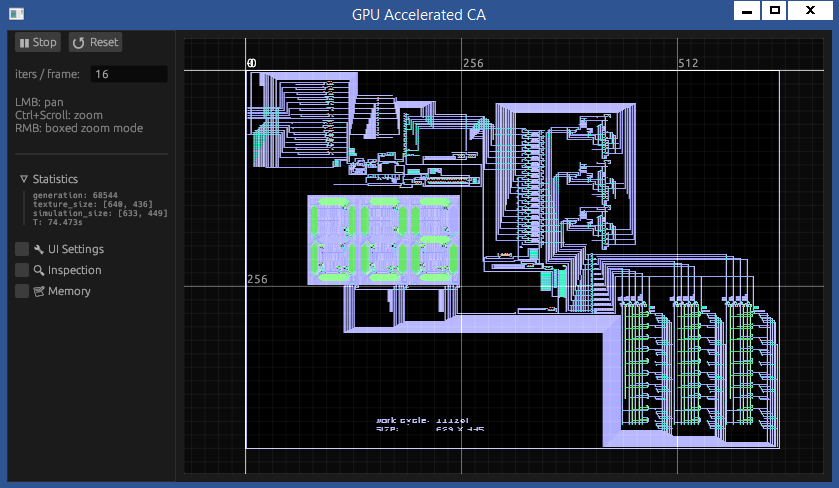
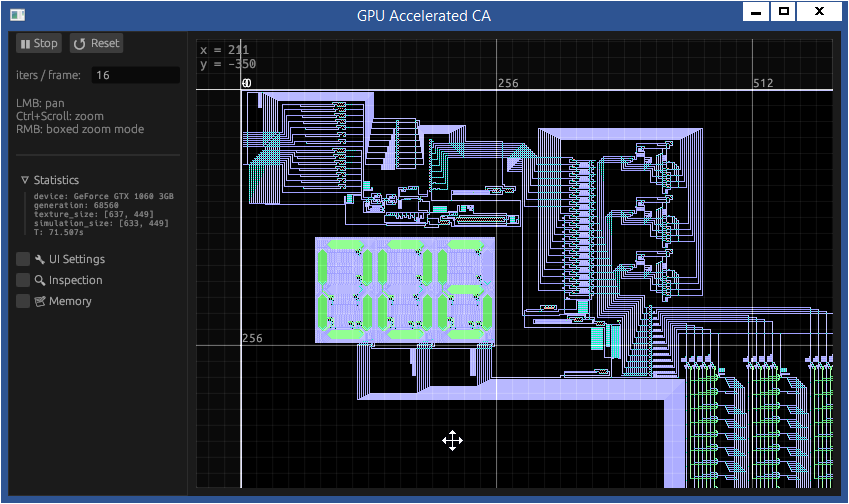
LUT approach; optimize pipeline

diff --git a/src/gpu_draw.rs b/src/gpu_draw.rs
@@ -24,6 +24,7 @@ impl Default for Uniform {
     }}}
 
 pub struct GPUDrawer {
+  shader: wgpu::ShaderModule,
   render_pipeline: wgpu::RenderPipeline,
   compute_pipeline: wgpu::ComputePipeline,
 
@@ -33,6 +34,7 @@ pub struct GPUDrawer {
 
   uniform_buffer: wgpu::Buffer,
   simulation_buffer: wgpu::Buffer,
+  lut_buffer: wgpu::Buffer,
 
   texture: (wgpu::Texture, wgpu::TextureView),
   pub texture_size: [u32; 2],
@@ -43,7 +45,7 @@ pub struct GPUDrawer {
 }
 
 impl GPUDrawer {
-  pub fn new(device: &wgpu::Device, target_format: wgpu::TextureFormat) -> Self {
+  pub fn new(device: &wgpu::Device, queue: &wgpu::Queue, target_format: wgpu::TextureFormat) -> Self {
     let shader = device.create_shader_module(
       wgsl_preprocessor::ShaderBuilder::new("./kernel/main.wgsl")
         .expect("Failed to load ./kernel/main.wgsl")
@@ -75,6 +77,16 @@ impl GPUDrawer {
       wgpu::BindGroupLayoutEntry { // simulation_buffer
         binding: 1,
         visibility: wgpu::ShaderStages::FRAGMENT | wgpu::ShaderStages::COMPUTE,
+        ty: wgpu::BindingType::Buffer {
+          ty: wgpu::BufferBindingType::Storage { read_only: false },
+          has_dynamic_offset: false,
+          min_binding_size: None,
+        },
+        count: None,
+      },
+      wgpu::BindGroupLayoutEntry { // LUT
+        binding: 2,
+        visibility: wgpu::ShaderStages::COMPUTE,
         ty: wgpu::BindingType::Buffer {
           ty: wgpu::BufferBindingType::Storage { read_only: false },
           has_dynamic_offset: false,
@@ -133,22 +145,24 @@ impl GPUDrawer {
       mapped_at_creation: false
     });
 
-    let bind_group = device.create_bind_group(&wgpu::BindGroupDescriptor {
-      label: Some("egui_plot_bind_group"),
-      layout: &bind_group_layout,
-      entries: &[wgpu::BindGroupEntry {
-        binding: 0,
-        resource: uniform_buffer.as_entire_binding(),
-      },
-      wgpu::BindGroupEntry {
-        binding: 1,
-        resource: simulation_buffer.as_entire_binding(),
-      }],
+    let lut_buffer = device.create_buffer(&wgpu::BufferDescriptor {
+      label: Some("Simulation Buffer"),
+      // c(5)-n(5)-e(5)-s(5)-w(5) = r(8)
+      size: 2u32.pow(25) as _, // 32MB
+      usage: wgpu::BufferUsages::STORAGE,
+      mapped_at_creation: false
     });
+
+    let bind_group = Self::create_bind_group(
+      &device, &bind_group_layout,
+      &uniform_buffer, &simulation_buffer, &lut_buffer
+    );
 
     let compute_pipeline = Self::create_compute_pipeline(device, &[&bind_group_layout], &shader, None);
 
-    Self {
+    let this = Self {
+      shader,
+
       render_pipeline,
       compute_pipeline,
 
@@ -158,13 +172,40 @@ impl GPUDrawer {
 
       uniform_buffer,
       simulation_buffer,
+      lut_buffer,
 
       texture,
       texture_size: [0, 0],
       uniforms,
 
       simulatiion_steps_per_call: 1
+    };
+
+    this.initialize_ca_lut(&device, &queue);
+    this
+  }
+
+  fn initialize_ca_lut(&self, device: &wgpu::Device, queue: &wgpu::Queue) {
+    let mut encoder =  device.create_command_encoder(&wgpu::CommandEncoderDescriptor { label: None });
+    let layout = device.create_pipeline_layout(&wgpu::PipelineLayoutDescriptor {
+      label: Some("lut layout"),
+      bind_group_layouts: &[&self.bind_group_layout],
+      push_constant_ranges: &[],
+    });
+    let pipeline = device.create_compute_pipeline(&wgpu::ComputePipelineDescriptor {
+      label: Some("lut pipeline"),
+      layout: Some(&layout),
+      module: &self.shader,
+      entry_point: "compute_lut",
+    });
+    {
+      let mut cpass = encoder.begin_compute_pass(&wgpu::ComputePassDescriptor { label: None });
+      cpass.set_pipeline(&pipeline);
+      cpass.set_bind_group(0, &self.bind_group, &[]);
+      cpass.insert_debug_marker("compute lut");
+      cpass.dispatch_workgroups(2u32.pow(13), 2u32.pow(12), 1);
     }
+    queue.submit(std::iter::once(encoder.finish()));
   }
 
   fn create_texture(
@@ -220,6 +261,32 @@ impl GPUDrawer {
     pipeline
   }
 
+  fn create_bind_group(
+    device: &wgpu::Device,
+    layout: &wgpu::BindGroupLayout,
+    uniform_buffer: &wgpu::Buffer,
+    simulation_buffer: &wgpu::Buffer,
+    lut_buffer: &wgpu::Buffer,
+  ) -> wgpu::BindGroup {
+    device.create_bind_group(&wgpu::BindGroupDescriptor {
+      label: Some("egui_plot_bind_group"),
+      layout,
+      entries: &[wgpu::BindGroupEntry {
+          binding: 0,
+          resource: uniform_buffer.as_entire_binding(),
+        },
+        wgpu::BindGroupEntry {
+          binding: 1,
+          resource: simulation_buffer.as_entire_binding(),
+        },
+        wgpu::BindGroupEntry {
+          binding: 2,
+          resource: lut_buffer.as_entire_binding(),
+        }
+      ],
+    })
+  }
+
   pub fn prepare(
     &mut self,
     device: &wgpu::Device,
@@ -241,33 +308,27 @@ impl GPUDrawer {
     queue.write_buffer(&self.uniform_buffer, 0, bytemuck::cast_slice(&[self.uniforms]));
   }
 
-  pub fn render(&self, device: &wgpu::Device, queue: &wgpu::Queue) {
-    let mut encoder =
-      device.create_command_encoder(&wgpu::CommandEncoderDescriptor { label: None });
-    {
-      let view = self.create_view();
+  pub fn render(&self, encoder: &mut wgpu::CommandEncoder) {
+    let view = self.create_view();
 
-      // Render directly to the texture if no MSAA, or use the
-      // multisampled buffer and resolve to the texture if using MSAA.
-      let rpass_color_attachment = wgpu::RenderPassColorAttachment {
-        view: &view,
-        resolve_target: None,
-        ops: wgpu::Operations {
-          load: wgpu::LoadOp::Clear(wgpu::Color::TRANSPARENT),
-          store: true,
-        },
-      };
+    // Render directly to the texture if no MSAA, or use the
+    // multisampled buffer and resolve to the texture if using MSAA.
+    let rpass_color_attachment = wgpu::RenderPassColorAttachment {
+      view: &view,
+      resolve_target: None,
+      ops: wgpu::Operations {
+        load: wgpu::LoadOp::Clear(wgpu::Color::TRANSPARENT),
+        store: true,
+      },
+    };
 
-      let mut rpass = encoder.begin_render_pass(&wgpu::RenderPassDescriptor {
-        label: None,
-        color_attachments: &[Some(rpass_color_attachment)],
-        depth_stencil_attachment: None,
-      });
+    let mut rpass = encoder.begin_render_pass(&wgpu::RenderPassDescriptor {
+      label: None,
+      color_attachments: &[Some(rpass_color_attachment)],
+      depth_stencil_attachment: None,
+    });
 
-      self.render_onto_renderpass(&mut rpass);
-    }
-
-    queue.submit(std::iter::once(encoder.finish()));
+    self.render_onto_renderpass(&mut rpass);
   }
 
   pub fn render_onto_renderpass<'rp>(&'rp self, rpass: &mut wgpu::RenderPass<'rp>) {
@@ -299,26 +360,15 @@ impl GPUDrawer {
         | wgpu::BufferUsages::COPY_SRC,
       mapped_at_creation: false
     });
-    self.bind_group = device.create_bind_group(&wgpu::BindGroupDescriptor {
-      label: Some("egui_plot_bind_group"),
-      layout: &self.bind_group_layout,
-      entries: &[wgpu::BindGroupEntry {
-        binding: 0,
-        resource: self.uniform_buffer.as_entire_binding(),
-      },
-      wgpu::BindGroupEntry {
-        binding: 1,
-        resource: self.simulation_buffer.as_entire_binding(),
-      }],
-    });
+    self.bind_group = Self::create_bind_group(
+      &device, &self.bind_group_layout,
+      &self.uniform_buffer, &self.simulation_buffer, &self.lut_buffer
+    );
     queue.write_buffer(&self.simulation_buffer, 0, &pattern);
   }
 
-  pub fn simulation_advance(&mut self, device: &wgpu::Device, queue: &wgpu::Queue) {
+  pub fn simulation_advance(&mut self, encoder: &mut wgpu::CommandEncoder) {
     for _ in 0..self.simulatiion_steps_per_call {
-      let mut encoder =
-        device.create_command_encoder(&wgpu::CommandEncoderDescriptor { label: None });
-
       {
         let mut cpass = encoder.begin_compute_pass(&wgpu::ComputePassDescriptor { label: None });
         cpass.set_pipeline(&self.compute_pipeline);
@@ -327,9 +377,8 @@ impl GPUDrawer {
         cpass.dispatch_workgroups(self.uniforms.simulation_dimm[0], self.uniforms.simulation_dimm[1], 1);
       }
 
-      queue.write_buffer(&self.uniform_buffer, 0, bytemuck::cast_slice(&[self.uniforms]));
-      queue.submit(std::iter::once(encoder.finish()));
       self.uniforms.time = self.uniforms.time.wrapping_add(1);
+      //queue.write_buffer(&self.uniform_buffer, 0, bytemuck::cast_slice(&[self.uniforms]));
     }
   }
 }
@@ -343,8 +392,11 @@ pub fn egui_wgpu_callback(
     egui_wgpu::CallbackFn::new().prepare(move |device, queue, _encoder, paint_callback_resources| {
       let gpu_drawer: &mut GPUDrawer = paint_callback_resources.get_mut().unwrap();
 
+      let mut encoder =
+        device.create_command_encoder(&wgpu::CommandEncoderDescriptor { label: None });
+
       if compute_requested {
-        gpu_drawer.simulation_advance(device, queue);
+        gpu_drawer.simulation_advance(&mut encoder);
       }
 
       gpu_drawer.prepare(
@@ -354,9 +406,9 @@ pub fn egui_wgpu_callback(
         &bounds,
       );
 
-      gpu_drawer.render(device, queue);
+      gpu_drawer.render(&mut encoder);
 
-      vec![]
+      vec![encoder.finish()]
     });
 
   egui::PaintCallback {

diff --git a/src/lib.rs b/src/lib.rs
@@ -8,6 +8,7 @@ mod gpu_draw;
 use gpu_draw::GPUDrawer;
 
 pub struct GpuPlot {
+  adapter_info: Option<wgpu::AdapterInfo>,
   compute_requested: bool,
   texture_id: egui::TextureId,
 
@@ -30,10 +31,14 @@ impl GpuPlot {
   pub fn new<'a>(cc: &'a eframe::CreationContext<'a>) -> Option<Self> {
     let wgpu_render_state = cc.wgpu_render_state.as_ref()?;
 
+    let adapter_info = wgpu::Instance::new(wgpu::Backends::all())
+      .enumerate_adapters(wgpu::Backends::all())
+      .next().map(|a| a.get_info());
+
     let device = &wgpu_render_state.device;
     let target_format = wgpu_render_state.target_format;
 
-    let mut gpu_drawer = GPUDrawer::new(device, target_format);
+    let mut gpu_drawer = GPUDrawer::new(device, &wgpu_render_state.queue, target_format);
     gpu_drawer.load_simulation(device, &wgpu_render_state.queue);
     let texture_id = {
       let mut renderer = wgpu_render_state.renderer.write();
@@ -49,6 +54,7 @@ impl GpuPlot {
     configure_text_styles(&cc.egui_ctx);
 
     Some(Self {
+      adapter_info,
       compute_requested: false,
       texture_id,
 
@@ -66,12 +72,23 @@ impl eframe::App for GpuPlot {
     let mut renderer = render_state.renderer.write();
     let gpu_drawer = renderer.paint_callback_resources.get_mut::<GPUDrawer>().unwrap();
 
-    //if gpu_drawer.uniforms.time >= 1 {
-    //  self.compute_requested = false;
-    //}
+    /*
+     * profiling for {
+     *   simulation_dimm: 633x449,
+     *   generations: 8192,
+     *   iters/frame: 32
+     * }
+     *
+     * hutton32, naive branching -> 7.803s
+     * hutton32, LUT 32MB        -> 5.695s (memory bound)
+     */
+    /*if gpu_drawer.uniforms.time >= 8192 && self.compute_requested {
+      self.compute_requested = false;
+      self.t0.map(|t0| println!("{:.3}s", t0.elapsed().as_secs_f64()));
+    }*/
 
     egui::SidePanel::left("left_panel")
-      .default_width(164.0)
+      .default_width(180.0)
       .show(ctx, |ui| {
         ui.horizontal_wrapped(|ui| {
           let label = if !self.compute_requested { "▶ Start" } else { "⏸ Stop" };
@@ -111,22 +128,25 @@ impl eframe::App for GpuPlot {
           Ctrl+Scroll: zoom\n\
           RMB: boxed zoom mode\n"
         );
-
         ui.separator();
         ui.add_space(10.0);
-        ui.collapsing("Statistics", |ui| ui.scope(|ui| {
-          ui.style_mut().wrap = Some(false);
-          ui.label(RichText::new(format!("\
-            generation: {}\n\
-            texture_size: {:?}\n\
-            simulation_size: {:?}\n\
-            T: {:.3}s",
-            gpu_drawer.uniforms.time,
-            gpu_drawer.texture_size,
-            gpu_drawer.uniforms.simulation_dimm,
-            self.t0.map(|t0| t0.elapsed().as_secs_f64()).unwrap_or(0.0)
-          )).text_style(TextStyle::Name("mono_small".into())));
-        }));
+        egui::CollapsingHeader::new("Statistics")
+          .default_open(true)
+          .show(ui, |ui| ui.scope(|ui| {
+            //ui.style_mut().wrap = Some(false);
+            ui.label(RichText::new(format!("\
+              device: {}\n\
+              generation: {}\n\
+              texture_size: {:?}\n\
+              simulation_size: {:?}\n\
+              T: {:.3}s",
+              self.adapter_info.as_ref().map(|a| a.name.as_ref()).unwrap_or(""),
+              gpu_drawer.uniforms.time,
+              gpu_drawer.texture_size,
+              gpu_drawer.uniforms.simulation_dimm,
+              self.t0.map(|t0| t0.elapsed().as_secs_f64()).unwrap_or(0.0)
+            )).text_style(TextStyle::Name("mono_small".into())))
+          }));
 
         ui.add_space(10.0);
         ui.checkbox(&mut self.debug_windows.ui_settings, "🔧 UI Settings");
@@ -167,7 +187,6 @@ impl eframe::App for GpuPlot {
         .include_x(simulation_dimm[0] as f64 * 1.33)
         .include_y(simulation_dimm[1] as f64 * 0.33)
         .include_y(simulation_dimm[1] as f64 * -1.33)
-        .min_size(Vec2::new(1.0, 1.0))
         .x_grid_spacer(egui::widgets::plot::log_grid_spacer(16))
         .y_grid_spacer(egui::widgets::plot::log_grid_spacer(16))
         .coordinates_formatter(

diff --git a/readme.md b/readme.md
@@ -1,4 +1,16 @@
 ### Hutton32 CA simulation on GPU
 Run with: `cargo run --release`
 
+```
+profiling for {
+  device: GeForce GTX 1060 3GB
+  simulation_dimm: 633x449,
+  generations: 8192,
+  iters/frame: 32
+}
+
+hutton32, naive branching -> 7.803s
+hutton32, LUT 32MB        -> 5.695s (memory bound)
+```
+
 ![](doc/scr.webp)
